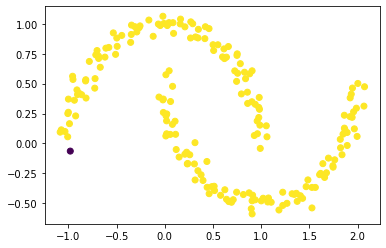
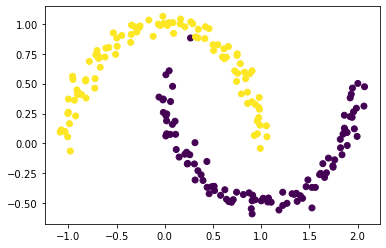
post 4

diff --git a/_posts/2022-02-10-blog4-post.md b/_posts/2022-02-10-blog4-post.md
@@ -206,13 +206,11 @@ def cut(A, y):
     '''
     # initialize the cut term = 0
     cut = 0
-    # have one entry travel around all other entries
-    for row in range(A.shape[0]):
-        for col in range(A.shape[1]):
-            # if the two points are in different clusters
-            if y[row] != y[col]:
-                # sum up the entires A[i,j]
-                cut += A[row, col]
+    # have one entry travel around all other entries that are from other clusters
+    for i in np.where(y == [0])[0]:
+        for j in np.where(y == [1])[0]:
+            # sum up the entries A[i,j] 
+            cut += A[i, j]
     # return the cut term
     return cut
 ```
@@ -229,7 +227,7 @@ cut(A, y), cut(A, ran_y)
 
 
 
-    (26.0, 2300.0)
+    (13.0, 1150.0)
 
 
 
@@ -272,7 +270,7 @@ normcut(A,y), normcut(A,ran_y)
 
 
 
-    (0.02303682466323045, 2.0480047195518316)
+    (0.011518412331615225, 1.0240023597759158)
 
 
 
@@ -296,7 +294,7 @@ $$
 
 Next, in linear algebra, there is a formula:
 
-$$\mathbf{N}_{\mathbf{A}}(C_0, C_1) = 2*\frac{\mathbf{z}^T (\mathbf{D} - \mathbf{A})\mathbf{z}}{\mathbf{z}^T\mathbf{D}\mathbf{z}}\;,$$
+$$\mathbf{N}_{\mathbf{A}}(C_0, C_1) = \frac{\mathbf{z}^T (\mathbf{D} - \mathbf{A})\mathbf{z}}{\mathbf{z}^T\mathbf{D}\mathbf{z}}\;,$$
 
 where $$\mathbf{D}$$ is the diagonal matrix with nonzero entries $$d_{ii} = d_i$$, and  where $$d_i = \sum_{j = 1}^n a_i$$ is the degree (row-sum) from before.  
 
@@ -343,7 +341,7 @@ z@D@np.ones(len(y)) == 0
 
 #### Note
 
-Noticing that the equation $$\mathbf{N}_{\mathbf{A}}(C_0, C_1) = 2*\frac{\mathbf{z}^T (\mathbf{D} - \mathbf{A})\mathbf{z}}{\mathbf{z}^T\mathbf{D}\mathbf{z}}\;$$ is exact, we can apply `np.isclose(a,b)` to check if the left hand side is "close" to the right hand side of the equation. The following is the demonstration:
+Noticing that the equation $$\mathbf{N}_{\mathbf{A}}(C_0, C_1) = \frac{\mathbf{z}^T (\mathbf{D} - \mathbf{A})\mathbf{z}}{\mathbf{z}^T\mathbf{D}\mathbf{z}}\;$$ is exact, we can apply `np.isclose(a,b)` to check if the left hand side is "close" to the right hand side of the equation. The following is the demonstration:
 
 
 ```python
@@ -386,7 +384,7 @@ def orth_obj(z):
 
 ```python
 import scipy.optimize
-z_min = scipy.optimize.minimize(orth_obj, z).x
+z_min = scipy.optimize.minimize(orth_obj, np.ones(len(z))).x
 ```
 
 **Note**: there's a cheat going on here! We originally specified that the entries of $$\mathbf{z}$$ should take only one of two values (back in Part C), whereas now we're allowing the entries to have *any* value! This means that we are no longer exactly optimizing the normcut objective, but rather an approximation. This cheat is so common that deserves a name: it is called the *continuous relaxation* of the normcut problem. More details can be viewed in [here](https://en.wikipedia.org/wiki/Relaxation_(approximation)).
@@ -414,26 +412,7 @@ plt.scatter(X[:,0], X[:,1], c = z_min < 0)
 ![output_37_1.png]({{ site.baseurl }}/images/output_37_1.png)
     
 
-
-It seems like using `0` here as the threshold cannot do the job well. When I checked the `z_min`, almost every value is negative, which makes me concern about the potenital optimization issues. Then, behind the screen, I personally try a couple of threshold values. The one that give me more reasonable result is using `z_min < -0.00142`. Here's the demonstration:
-
-
-```python
-plt.scatter(X[:,0], X[:,1], c = z_min < -0.00142)
-```
-
-
-
-
-    <matplotlib.collections.PathCollection at 0x291693cacd0>
-
-
-
-
-    
-![output_39_1.png]({{ site.baseurl }}/images/output_39_1.png)
-    
-
+Indeed, it looks like the minimizing vector can help us cluster the data into two groups almost perfectly!
 
 ## Part F
 
